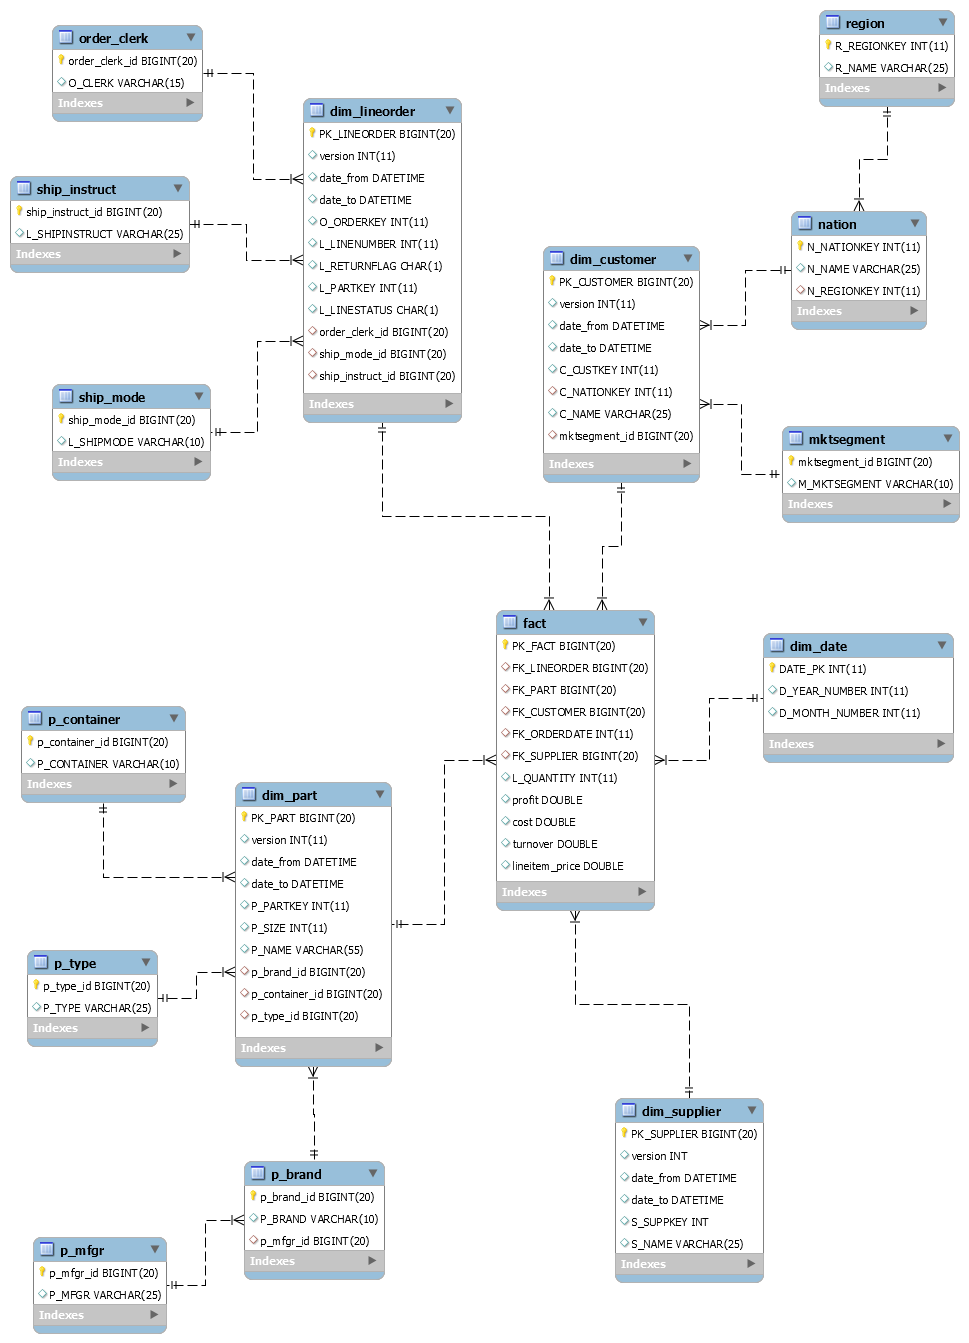
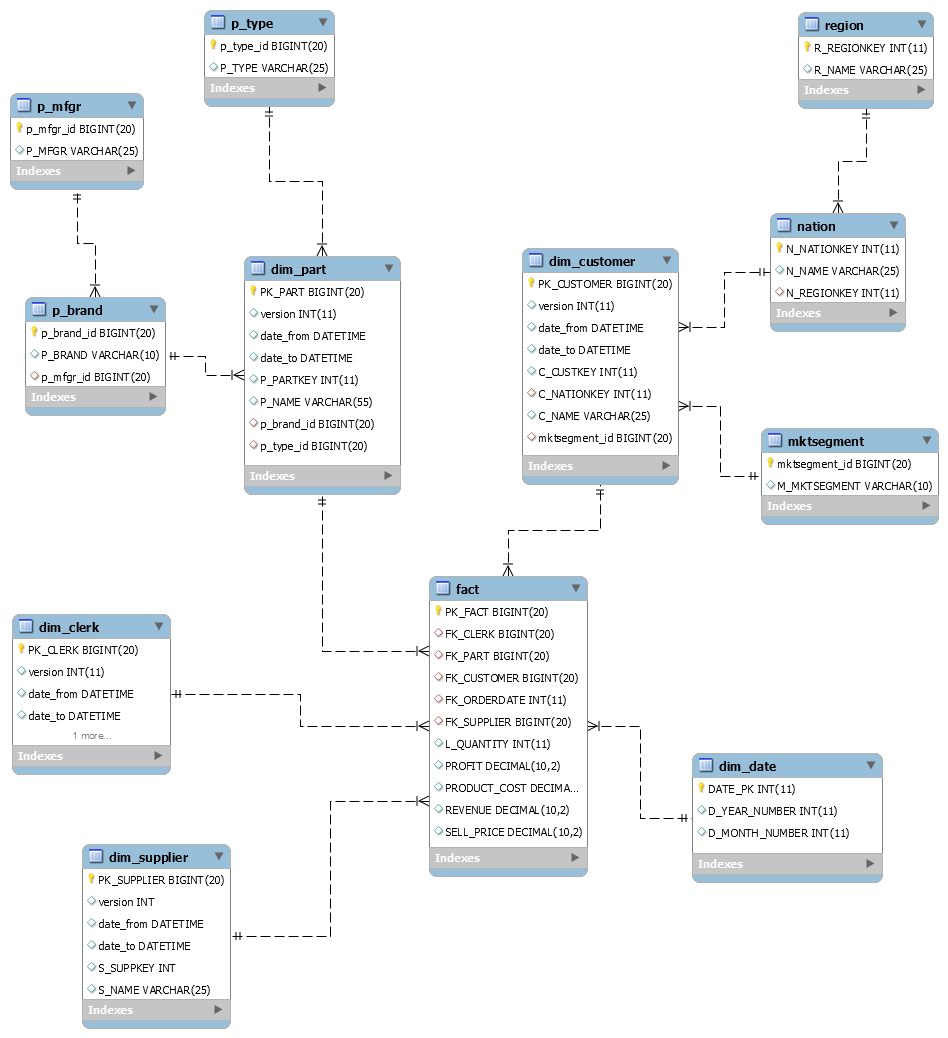
changes on DW cube and models

diff --git a/generic-dwh-web/src/main/resources/templates/star/query.html b/generic-dwh-web/src/main/resources/templates/star/query.html
@@ -29,8 +29,8 @@
                         <div class="card">
                             <div class="card-header">Ratios </div>
                             <div class="card-body">
-                                <input type="checkbox" th:text="' Turnover'" th:name="ratioChecked" th:value="Turnover"><br/>
-                                <input type="checkbox" th:text="' Cost'" th:name="ratioChecked" th:value="Cost"><br/>
+                                <input type="checkbox" th:text="' Revenue'" th:name="ratioChecked" th:value="Revenue"><br/>
+                                <input type="checkbox" th:text="' Product Cost'" th:name="ratioChecked" th:value="product_cost"><br/>
                                 <input type="checkbox" th:text="' Profit'" th:name="ratioChecked" th:value="Profit"><br/>
                                 <input type="checkbox" th:text="' Product Sell Price'" th:name="ratioChecked" th:value="lineitem_price"><br/>
                                 <input type="checkbox" th:text="' Product Purchase Amount'" th:name="ratioChecked" th:value="l_quantity"><br/>
@@ -94,41 +94,10 @@
                                             <input type="checkbox" th:name="dimensionChecked"
                                                    th:value="p_type" th:text="' Product Type'"><br/>
                                             <input type="checkbox" th:name="dimensionChecked"
-                                                   th:value="p_size" th:text="' Product Size'"><br/>
-                                            <input type="checkbox" th:name="dimensionChecked"
-                                                   th:value="p_container" th:text="' Product Container'"><br/>
-                                            <input type="checkbox" th:name="dimensionChecked"
                                                    th:value="p_name" th:text="' Product Name'"><br/>
                                         </div>
                                     </div>
-                                    <div class="card border-dark mb-3">
-                                        <div class="card-header" th:text="'Return Flags'" th:id="returnFlags"></div>
-                                        <div class="card-body">
-                                            <input type="checkbox" th:name="dimensionChecked"
-                                                   th:value="l_returnflag" th:text="' Return Flag'"><br/>
-                                        </div>
-                                    </div>
-                                    <div class="card border-dark mb-3">
-                                        <div class="card-header" th:text="'Ship Modes'" th:id="shipModes"></div>
-                                        <div class="card-body">
-                                            <input type="checkbox" th:name="dimensionChecked"
-                                                   th:value="l_shipmode" th:text="' Ship Mode'"><br/>
-                                        </div>
-                                    </div>
-                                    <div class="card border-dark mb-3">
-                                        <div class="card-header" th:text="'Ship Instructs'" th:id="shipInstructs"></div>
-                                        <div class="card-body">
-                                            <input type="checkbox" th:name="dimensionChecked"
-                                                   th:value="l_shipinstruct" th:text="' Ship Instruct'"><br/>
-                                        </div>
-                                    </div>
-                                    <div class="card border-dark mb-3">
-                                        <div class="card-header" th:text="'Ship Statuses'" th:id="shipStatuses"></div>
-                                        <div class="card-body">
-                                            <input type="checkbox" th:name="dimensionChecked"
-                                                   th:value="l_linestatus" th:text="' Ship Status'"><br/>
-                                        </div>
-                                    </div>
+
                                     <div class="card border-dark mb-3">
                                         <div class="card-header" th:text="'Time'" th:id="time"></div>
                                         <div class="card-body">

diff --git a/generic-dwh-web/src/main/resources/templates/snowflake/query.html b/generic-dwh-web/src/main/resources/templates/snowflake/query.html
@@ -29,8 +29,8 @@
                         <div class="card">
                             <div class="card-header">Ratios </div>
                             <div class="card-body">
-                                <input type="checkbox" th:text="' Turnover'" th:name="ratioChecked" th:value="Turnover"><br/>
-                                <input type="checkbox" th:text="' Cost'" th:name="ratioChecked" th:value="Cost"><br/>
+                                <input type="checkbox" th:text="' Revenue'" th:name="ratioChecked" th:value="Revenue"><br/>
+                                <input type="checkbox" th:text="' Product Cost'" th:name="ratioChecked" th:value="product_cost"><br/>
                                 <input type="checkbox" th:text="' Profit'" th:name="ratioChecked" th:value="Profit"><br/>
                                 <input type="checkbox" th:text="' Product Sell Price'" th:name="ratioChecked" th:value="lineitem_price"><br/>
                                 <input type="checkbox" th:text="' Product Purchase Amount'" th:name="ratioChecked" th:value="l_quantity"><br/>
@@ -94,39 +94,7 @@
                                             <input type="checkbox" th:name="dimensionChecked"
                                                    th:value="p_type" th:text="' Product Type'"><br/>
                                             <input type="checkbox" th:name="dimensionChecked"
-                                                   th:value="p_size" th:text="' Product Size'"><br/>
-                                            <input type="checkbox" th:name="dimensionChecked"
-                                                   th:value="p_container" th:text="' Product Container'"><br/>
-                                            <input type="checkbox" th:name="dimensionChecked"
                                                    th:value="p_name" th:text="' Product Name'"><br/>
-                                        </div>
-                                    </div>
-                                    <div class="card border-dark mb-3">
-                                        <div class="card-header" th:text="'Return Flags'" th:id="returnFlags"></div>
-                                        <div class="card-body">
-                                            <input type="checkbox" th:name="dimensionChecked"
-                                                   th:value="l_returnflag" th:text="' Return Flag'"><br/>
-                                        </div>
-                                    </div>
-                                    <div class="card border-dark mb-3">
-                                        <div class="card-header" th:text="'Ship Modes'" th:id="shipModes"></div>
-                                        <div class="card-body">
-                                            <input type="checkbox" th:name="dimensionChecked"
-                                                   th:value="l_shipmode" th:text="' Ship Mode'"><br/>
-                                        </div>
-                                    </div>
-                                    <div class="card border-dark mb-3">
-                                        <div class="card-header" th:text="'Ship Instructs'" th:id="shipInstructs"></div>
-                                        <div class="card-body">
-                                            <input type="checkbox" th:name="dimensionChecked"
-                                                   th:value="l_shipinstruct" th:text="' Ship Instruct'"><br/>
-                                        </div>
-                                    </div>
-                                    <div class="card border-dark mb-3">
-                                        <div class="card-header" th:text="'Ship Statuses'" th:id="shipStatuses"></div>
-                                        <div class="card-body">
-                                            <input type="checkbox" th:name="dimensionChecked"
-                                                   th:value="l_linestatus" th:text="' Ship Status'"><br/>
                                         </div>
                                     </div>
 

diff --git a/generic-dwh-data/src/main/java/de/wwu/ercis/genericdwhapp/services/snowflake/springdatajpa/SnowflakeService.java b/generic-dwh-data/src/main/java/de/wwu/ercis/genericdwhapp/services/snowflake/springdatajpa/SnowflakeService.java
@@ -41,17 +41,9 @@ public class SnowflakeService implements de.wwu.ercis.genericdwhapp.services.sno
                 joins.add("INNER JOIN region r on r.r_regionkey = n.n_regionkey");
             }
 
-            //Line Order Dimension
-            if((d.startsWith("o") || d.startsWith("l")) && !joins.stream().anyMatch(s -> s.contains("dim_lineorder")))
-                joins.add("INNER JOIN dim_lineorder l ON l.PK_LINEORDER = f.FK_LINEORDER");
-            if(d.contains("o_clerk"))
-                joins.add("INNER JOIN order_clerk oc ON oc.order_clerk_id = l.order_clerk_id");
-            if(d.contains("o_orderpriority"))
-                joins.add("INNER JOIN order_priority op ON op.order_priority_id = l.order_priority_id");
-            if(d.contains("l_shipinstruct"))
-                joins.add("INNER JOIN ship_instruct si ON si.ship_instruct_id = l.ship_instruct_id");
-            if(d.contains("l_shipmode"))
-                joins.add("INNER JOIN ship_mode sm ON sm.ship_mode_id = l.ship_mode_id");
+            //Clerk Dimension
+            if(d.startsWith("o") && !joins.stream().anyMatch(s -> s.contains("dim_clerk")))
+                joins.add("INNER JOIN dim_clerk k ON k.PK_CLERK = f.FK_CLERK");
 
             //Product Dimension
             if (d.startsWith("p")  && !joins.stream().anyMatch(s -> s.contains("dim_part")))
@@ -64,8 +56,7 @@ public class SnowflakeService implements de.wwu.ercis.genericdwhapp.services.sno
                 joins.add("INNER JOIN p_brand pb on pb.p_brand_id = p.p_brand_id");
             if(d.contains("p_type"))
                 joins.add("INNER JOIN p_type pt on pt.p_type_id = p.p_type_id");
-            if(d.contains("p_container"))
-                joins.add("INNER JOIN p_container pc on pc.p_container_id = p.p_container_id");
+
 
             //Supplier Dimension
             if (d.startsWith("s") && !joins.stream().anyMatch(s -> s.contains("dim_supplier")))

diff --git a/generic-dwh-web/src/main/java/de/wwu/ercis/genericdwhapp/controllers/snowflakeschema/SnowflakeController.java b/generic-dwh-web/src/main/java/de/wwu/ercis/genericdwhapp/controllers/snowflakeschema/SnowflakeController.java
@@ -64,6 +64,8 @@ public class SnowflakeController {
                     break;
                 case "l_quantity": ratio = "Purchase Amount";
                     break;
+                case "product_cost": ratio = "Product Cost";
+                    break;
             }
             ratiosValues.add(ratio);
         }
@@ -85,23 +87,11 @@ public class SnowflakeController {
                     break;
                 case "o_clerk": dimension = "Order Clerk";
                     break;
-                case "l_returnflag": dimension = "Return Flag";
-                    break;
-                case "l_linestatus": dimension = "Product Status";
-                    break;
-                case "l_shipinstruct": dimension = "Ship Instruct";
-                    break;
-                case "l_shipmode": dimension = "Ship Mode";
-                    break;
                 case "p_mfgr": dimension = "Manufacturer Group";
                     break;
                 case "p_brand": dimension = "Product Brand";
                     break;
                 case "p_type": dimension = "Product Type";
-                    break;
-                case "p_size": dimension = "Product Size";
-                    break;
-                case "p_container": dimension = "Container";
                     break;
                 case "p_name": dimension = "Product Name";
                     break;

diff --git a/generic-dwh-web/src/main/java/de/wwu/ercis/genericdwhapp/controllers/starschema/StarController.java b/generic-dwh-web/src/main/java/de/wwu/ercis/genericdwhapp/controllers/starschema/StarController.java
@@ -65,6 +65,8 @@ public class StarController {
                     break;
                 case "l_quantity": ratio = "Purchase Amount";
                     break;
+                case "product_cost": ratio = "Product Cost";
+                    break;
             }
             ratiosValues.add(ratio);
         }
@@ -86,23 +88,11 @@ public class StarController {
                     break;
                 case "o_clerk": dimension = "Order Clerk";
                     break;
-                case "l_returnflag": dimension = "Return Flag";
-                    break;
-                case "l_linestatus": dimension = "Product Status";
-                    break;
-                case "l_shipinstruct": dimension = "Ship Instruct";
-                    break;
-                case "l_shipmode": dimension = "Ship Mode";
-                    break;
                 case "p_mfgr": dimension = "Manufacturer Group";
                     break;
                 case "p_brand": dimension = "Product Brand";
                     break;
                 case "p_type": dimension = "Product Type";
-                    break;
-                case "p_size": dimension = "Product Size";
-                    break;
-                case "p_container": dimension = "Container";
                     break;
                 case "p_name": dimension = "Product Name";
                     break;

diff --git a/generic-dwh-data/src/main/java/de/wwu/ercis/genericdwhapp/services/star/springdatajpa/StarSDJpaService.java b/generic-dwh-data/src/main/java/de/wwu/ercis/genericdwhapp/services/star/springdatajpa/StarSDJpaService.java
@@ -29,8 +29,8 @@ public class StarSDJpaService implements StarService {
             dimensions.add("d_year_number");
 
         for (String d: dimensions){
-            if ((d.startsWith("o") || d.startsWith("l")) && !joins.stream().anyMatch(s -> s.contains("dim_lineorder")))
-                joins.add("INNER JOIN dim_lineorder l ON l.PK_LINEORDER = f.FK_LINEORDER");
+            if (d.startsWith("o") && !joins.stream().anyMatch(s -> s.contains("dim_clerk")))
+                joins.add("INNER JOIN dim_clerk k ON k.PK_CLERK = f.FK_CLERK");
 
             if (d.startsWith("c") && !joins.stream().anyMatch(s -> s.contains("dim_customer")))
                 joins.add("INNER JOIN dim_customer c ON c.PK_CUSTOMER = f.FK_CUSTOMER");
